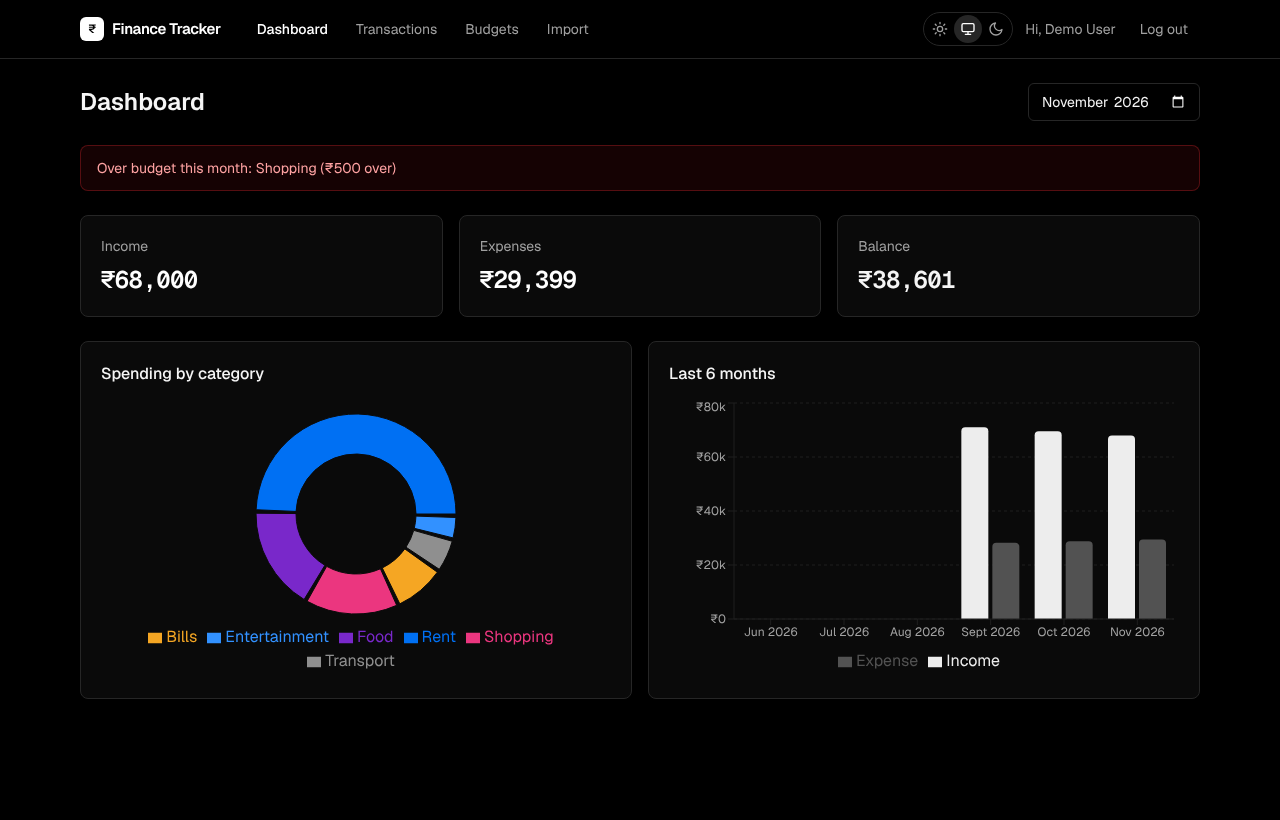
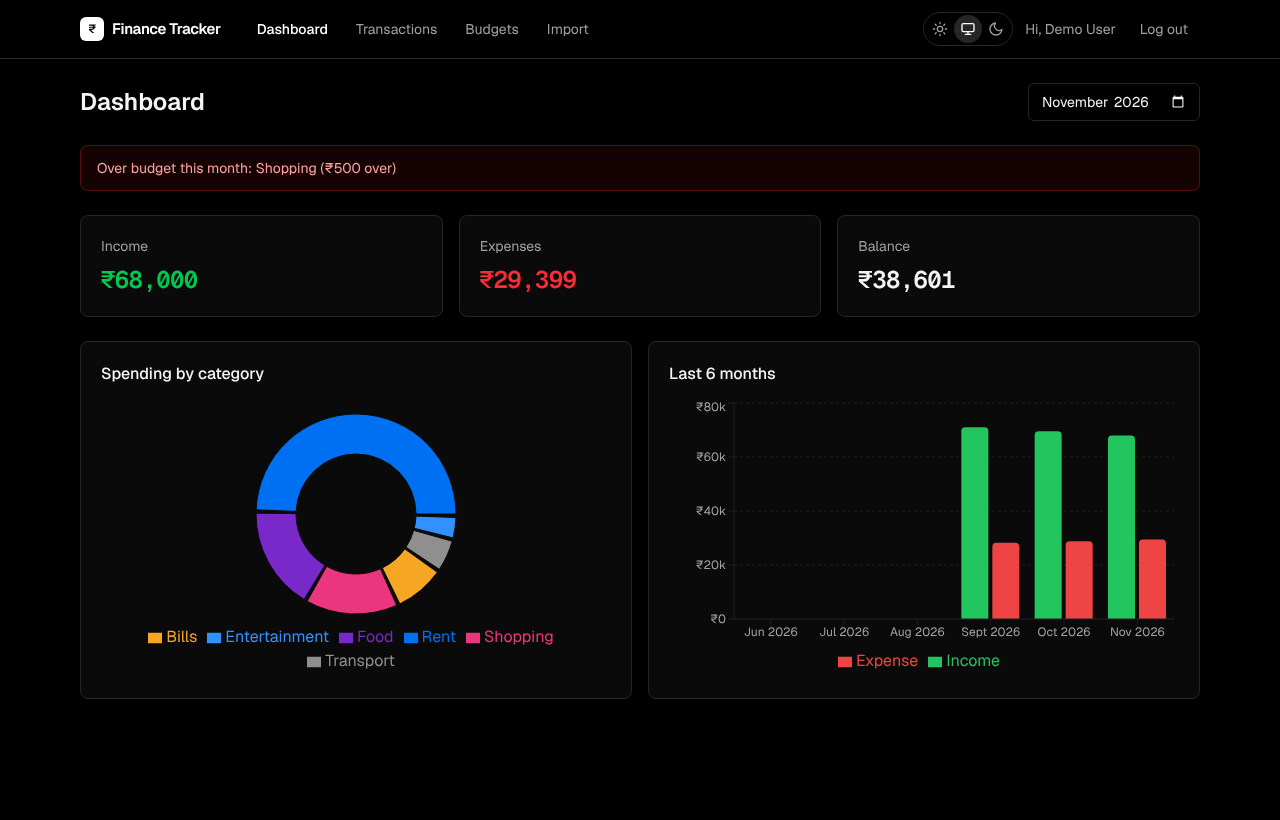
style: green for money in, red for money out

diff --git a/client/src/pages/Dashboard.tsx b/client/src/pages/Dashboard.tsx
@@ -57,8 +57,8 @@ export default function Dashboard() {
       )}
 
       <div className="grid gap-4 sm:grid-cols-3">
-        <StatCard label="Income" value={summary?.income ?? 0} tone="text-neutral-900 dark:text-white" />
-        <StatCard label="Expenses" value={summary?.expense ?? 0} tone="text-neutral-900 dark:text-white" />
+        <StatCard label="Income" value={summary?.income ?? 0} tone="text-green-600 dark:text-green-500" />
+        <StatCard label="Expenses" value={summary?.expense ?? 0} tone="text-red-600 dark:text-red-500" />
         <StatCard label="Balance" value={summary?.balance ?? 0} tone={(summary?.balance ?? 0) >= 0 ? "text-neutral-800 dark:text-neutral-100" : "text-red-600 dark:text-red-400"} />
       </div>
 
@@ -89,8 +89,8 @@ export default function Dashboard() {
               <YAxis fontSize={12} tick={{ fill: axis }} stroke={grid} tickFormatter={(v) => (Number(v) >= 1000 ? `₹${Number(v) / 1000}k` : `₹${v}`)} />
               <Tooltip formatter={(v) => formatINR(Number(v))} contentStyle={tooltipStyle} cursor={{ fill: isDark ? "#171717" : "#f5f5f5" }} />
               <Legend />
-              <Bar dataKey="income" name="Income" fill={isDark ? "#ededed" : "#171717"} radius={[4, 4, 0, 0]} />
-              <Bar dataKey="expense" name="Expense" fill={isDark ? "#525252" : "#a3a3a3"} radius={[4, 4, 0, 0]} />
+              <Bar dataKey="income" name="Income" fill={isDark ? "#22c55e" : "#16a34a"} radius={[4, 4, 0, 0]} />
+              <Bar dataKey="expense" name="Expense" fill={isDark ? "#ef4444" : "#dc2626"} radius={[4, 4, 0, 0]} />
             </BarChart>
           </ResponsiveContainer>
         </div>

diff --git a/client/src/components/TransactionForm.tsx b/client/src/components/TransactionForm.tsx
@@ -48,7 +48,7 @@ export default function TransactionForm({ categories, initial, onSubmit, onCance
             onClick={() => changeType(t)}
             className={`rounded-lg border px-3 py-2 text-sm font-medium ${
               type === t
-                ? t === "EXPENSE" ? "border-neutral-900 bg-neutral-900 text-white dark:border-white dark:bg-white dark:text-black" : "border-neutral-900 bg-neutral-900 text-white dark:border-white dark:bg-white dark:text-black"
+                ? t === "EXPENSE" ? "border-red-600 bg-red-50 text-red-700 dark:border-red-500 dark:bg-red-950/40 dark:text-red-400" : "border-green-600 bg-green-50 text-green-700 dark:border-green-500 dark:bg-green-950/40 dark:text-green-400"
                 : "border-neutral-200 text-neutral-500 dark:border-neutral-700 dark:text-neutral-400"
             }`}
           >

diff --git a/client/src/pages/Import.tsx b/client/src/pages/Import.tsx
@@ -288,7 +288,7 @@ export default function Import() {
                           {categories.filter((c) => c.type === r.type).map((c) => <option key={c.id} value={c.id}>{c.name}</option>)}
                         </select>
                       </td>
-                      <td className={`amount whitespace-nowrap px-4 py-2 text-right font-medium ${r.type === "INCOME" ? "text-neutral-900 dark:text-white" : "text-neutral-500 dark:text-neutral-400"}`}>
+                      <td className={`amount whitespace-nowrap px-4 py-2 text-right font-medium ${r.type === "INCOME" ? "text-green-600 dark:text-green-500" : "text-red-600 dark:text-red-500"}`}>
                         {r.type === "INCOME" ? "+" : "−"}{formatINR(r.amount)}
                       </td>
                     </tr>

diff --git a/client/src/pages/Transactions.tsx b/client/src/pages/Transactions.tsx
@@ -67,7 +67,7 @@ export default function Transactions() {
                 </td>
                 <td className="px-5 py-3">{tx.category.name}</td>
                 <td className="muted px-5 py-3">{tx.note}</td>
-                <td className={`amount px-5 py-3 text-right font-medium ${tx.type === "INCOME" ? "text-neutral-900 dark:text-white" : "text-neutral-500 dark:text-neutral-400"}`}>
+                <td className={`amount px-5 py-3 text-right font-medium ${tx.type === "INCOME" ? "text-green-600 dark:text-green-500" : "text-red-600 dark:text-red-500"}`}>
                   {tx.type === "INCOME" ? "+" : "−"}{formatINR(tx.amount)}
                 </td>
                 <td className="px-5 py-3 text-right whitespace-nowrap">
